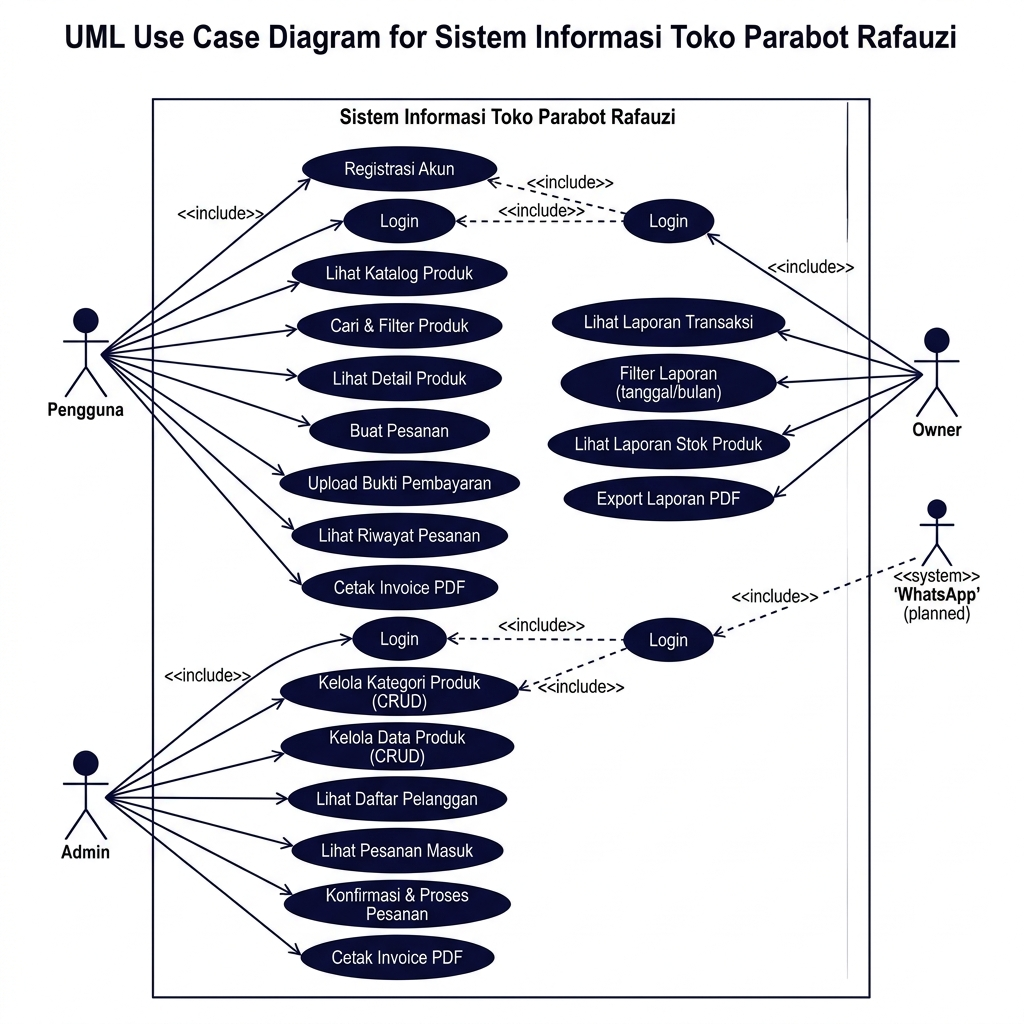
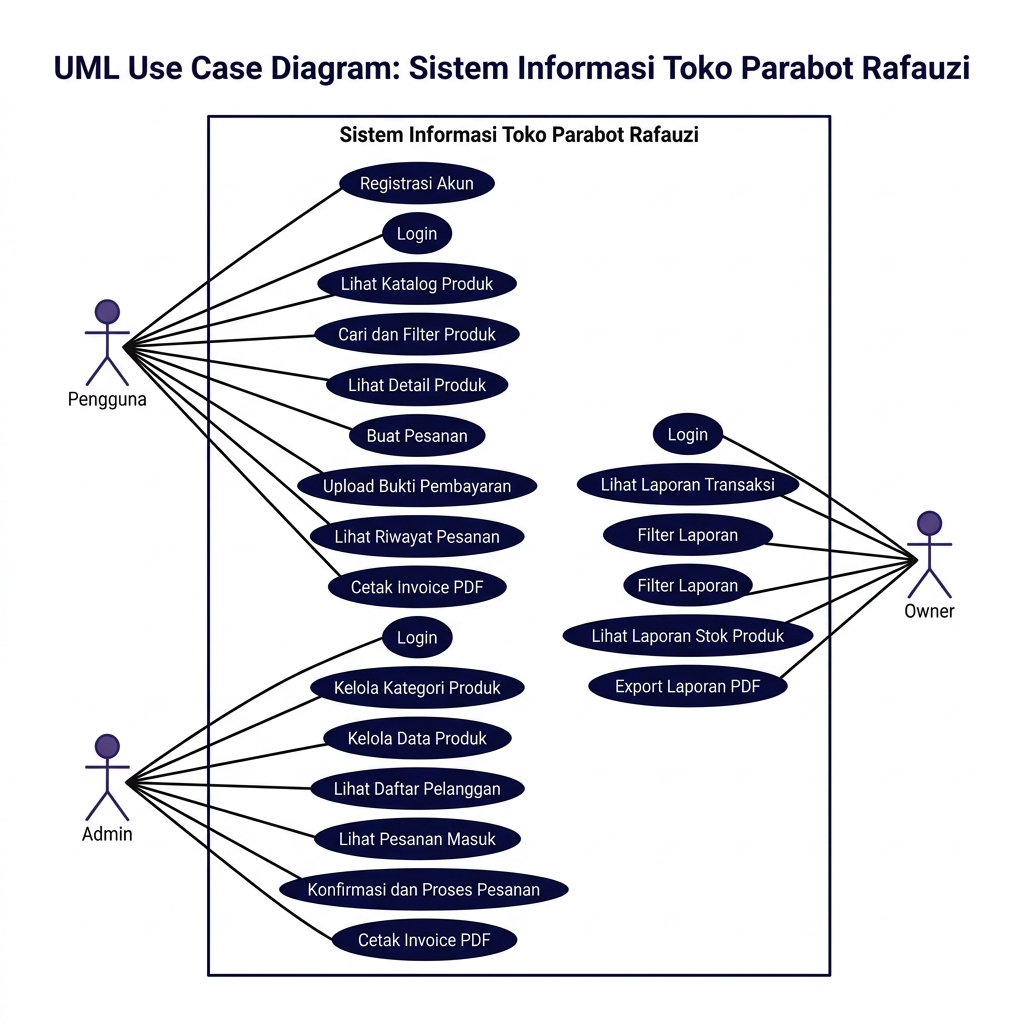
ambil disini

Changed region(s): [[0.0312, 0.0, 0.9688, 0.9688]]

diff --git a/resources/views/admin/transaksi.blade.php b/resources/views/admin/transaksi.blade.php
@@ -211,11 +211,11 @@
         </div>
       </div>
 
-      {{-- Tengah: Subtotal --}}
+      {{-- Tengah: Total dari Transaksi (akurat untuk multi-item) --}}
       <div style="text-align:center; padding:0 20px; flex-shrink:0;">
         <div style="font-size:10px; color:#3d3f52; text-transform:uppercase; letter-spacing:0.5px; margin-bottom:3px;">Total</div>
         <div style="font-family:'Sora',sans-serif; font-size:16px; font-weight:700; color:#a5b4fc;">
-          Rp {{ number_format($detail?->subtotal ?? 0, 0, ',', '.') }}
+          Rp {{ number_format($p->transaksi?->total_harga ?? $detail?->subtotal ?? 0, 0, ',', '.') }}
         </div>
       </div>
 